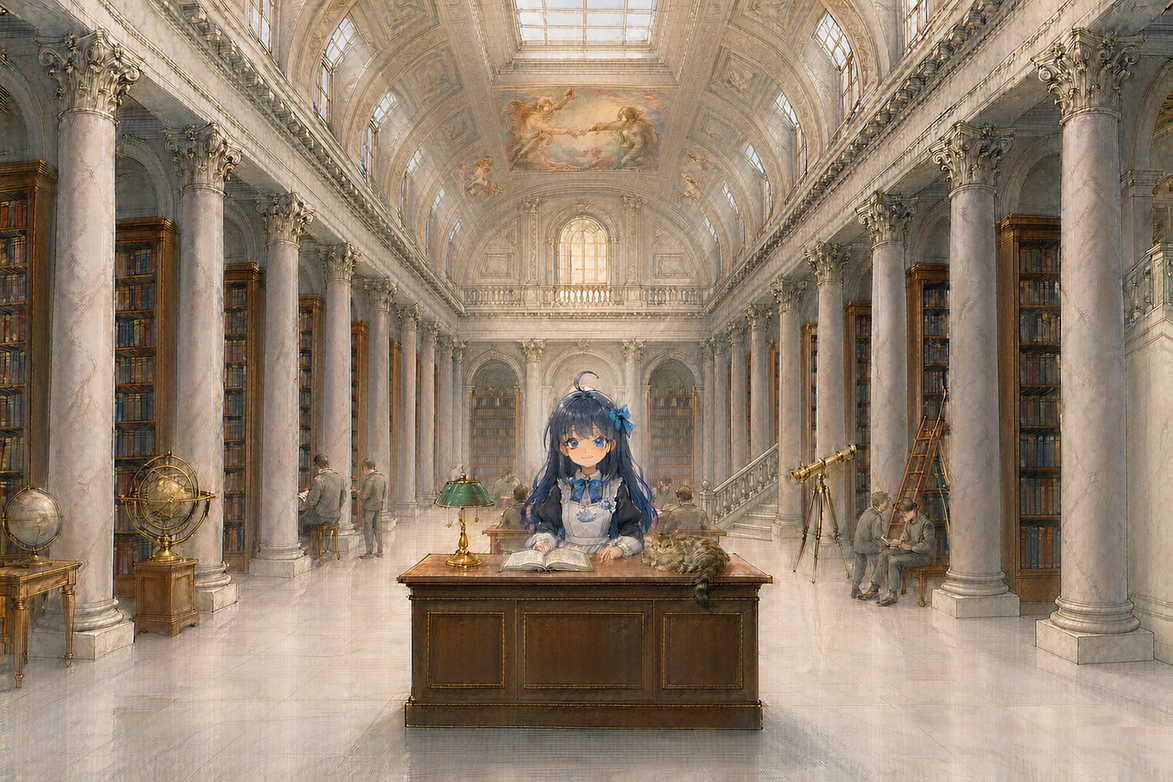
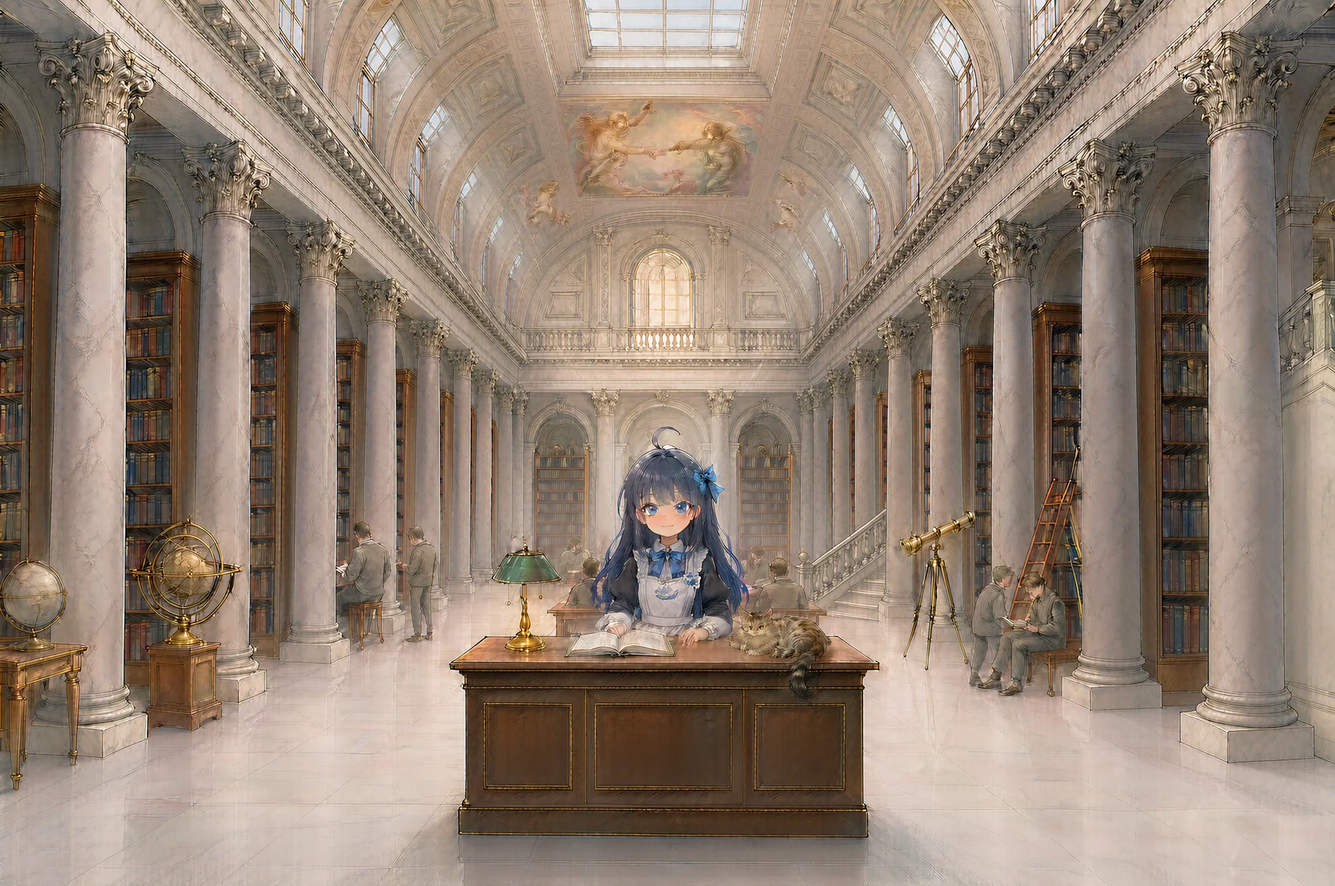
馆藏原件十六版：内厅改 2048 高清重绘，接待员的脸清楚可辨

diff --git a/index.html b/index.html
@@ -1832,7 +1832,9 @@ img{display:block}
    ⚠ **舞台 `.arc-stage` 是一个恒定 1.5 的长宽比盒子**（`max()` 撑满视口 → 等价于 cover）：
       这样三张图永不拉伸变形，而门洞／门扇的百分比在任何屏幕上都是同一套数字。
       UI（问候语 / 调阅台 / 底部提示）挂在 `.arcwall` 上，**不跟着舞台被裁**。
-   ⚠ 素材：`archive-door.webp`（正立面）/ `archive-hall.webp`（内厅）。
+   ⚠ 素材：`archive-door.webp`（正立面）/ `archive-hall.webp`（内厅，**2048×1360 高清版**）。
+       十六版起内厅走「**高清重绘**」：原图 1536 版里她整张脸只有 ~60px → 放大后必糊；
+       改以 2048 重绘（她的脸 ~150px）后清楚可辨。**换内厅图必须重量 `--ar-head`**。
    ⭐ **三版（用户："接待员呢、前台呢、深度不够、两侧书架离中间太近"）**：接待员与横向长前台
       **整幅画进内厅图**（站在台后）—— 不再有独立人物图层，所以她没有单独淡入，跟着场景一起亮；
       中殿拉开（柱廊退到左右两端）、纵深加到八个开间。`archive-staff.webp` 随之作废（已删）。
@@ -1853,21 +1855,21 @@ img{display:block}
      ⚠ 她画在图里、挂在舞台的**竖直中线附近**（头顶离中线只差 1.5% 舞台高），
         所以缩放对她的挂点几乎无影响（0.485 → 0.483，约 3px）。 */
   --ar-zoom:1.15;
-  /* 她头顶的高度（量自内厅图：十五版合成图 0.500 × 全高 → 离舞台底边 0.498）。
+  /* 她头顶的高度（量自内厅图：十六版高清 0.487 × 全高 → 离舞台底边 0.513）。
      ⚠ 换内厅图**必须重量**。⚠⚠ **不要用自动判据** —— 穹顶壁画、凹格、远窗的暗线都会在带子里
-        制造假台阶（连骗四次：0.396 / 0.424 / 0.434 …，真值 0.500）。
-     ✅ 可靠做法：**把竖直带收窄到只压住她头发**（x 0.475–0.525），剖面会出现一条干净的大台阶，
-        **再画候选线目视确认**（headcheck 图）**然后手判**，别把自动结果直接写进 CSS。
-     ⭐ 十五版的脸是**从十二版抠过来 1:1 贴回**的（十四版那张脸被"去雾"磨糊了）——
-        同一血统的版本之间**几何是对齐的**，哪一版某个局部更好就直接抠过来，**零出图成本**。 */
-  --ar-head:calc(var(--ar-stage-h) * .498 - var(--ar-crop))}
+        制造假台阶（已连骗五次：0.396 / 0.424 / 0.434 / 0.440 …）。
+     ✅ 唯一可靠做法：**把竖直带收窄到只压住她头发**（x 0.480–0.520），剖面会出现一条干净的大台阶
+        （十六版：686 行 183 → 714 行 84），**再画候选线目视确认**，然后手判。
+     ⭐ 十六版取的是 **0.487**（不是更大那个数）：她的**呆毛**往上一小截，气泡要挂在呆毛之上，
+        所以取的是呆毛顶而不是发顶（两者差约 0.013 全高）。 */
+  --ar-head:calc(var(--ar-stage-h) * .513 - var(--ar-crop))}
 
 /* ── ① 内厅（门背后那一层）─────────────────────────────────────────────── */
 .arc-scene{position:absolute;inset:0;z-index:0;transform:scale(var(--ar-zoom,1));
   transition:transform 2.6s cubic-bezier(.3,.02,.26,1)}
 .arcwall.push .arc-scene{transform:scale(calc(var(--ar-zoom,1) * 1.06))}
 .arc-hall{position:absolute;inset:0;
-  background:url("assets/archive-hall.webp?v=20260922m") center/100% 100% no-repeat}
+  background:url("assets/archive-hall.webp?v=20260922n") center/100% 100% no-repeat}
 .arc-hallv{position:absolute;inset:0;
   background:radial-gradient(ellipse 60% 44% at 50% 44%,rgba(255,252,244,.26),rgba(255,250,240,0) 72%),
     linear-gradient(180deg,rgba(58,42,24,.20),rgba(58,42,24,0) 24%,
@@ -4586,6 +4588,6 @@ footer .ft-legal b{color:var(--muted);font-weight:500}
 <script src="study-plan.js?v=20260922c"></script>
 <script src="docs.js?v=20260921c"></script>
 <script src="app.js?v=20260920f"></script>
-<script src="knowledge.js?v=20260922z"></script>
+<script src="knowledge.js?v=20260922aa"></script>
 </body>
 </html>

diff --git a/knowledge.js b/knowledge.js
@@ -2287,7 +2287,7 @@ function warmGateImages() {
        门是进门第一眼（必须已经在缓存里），内厅在 760ms 后就要露出来；
        接待员（65 KB）要 2.4s 之后才淡入，留给她自己慢慢下。 */
     "assets/archive-door.webp?v=20260922a",
-    "assets/archive-hall.webp?v=20260922m"
+    "assets/archive-hall.webp?v=20260922n"
   ];
   list.forEach(function (u) {
     var im = new Image();
